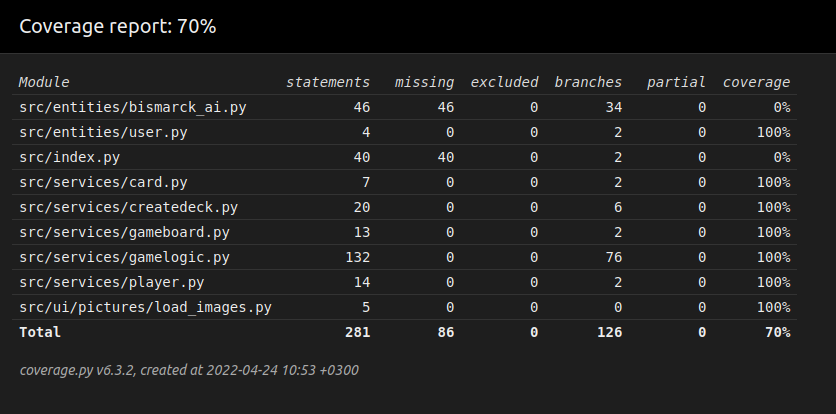
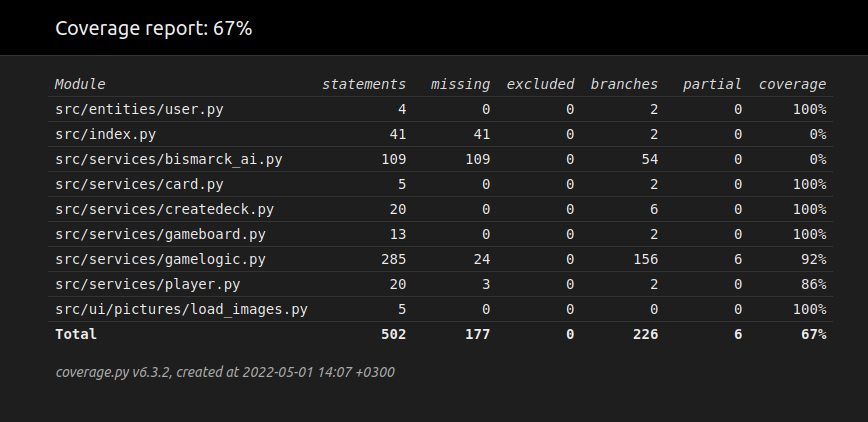
documentation

diff --git a/documentation/testing_documentation.md b/documentation/testing_documentation.md
@@ -5,7 +5,7 @@ Here documentation about testing will be kept and updated during the development
 
 ## Coverage Rapport
 
-### Updated 24.4.2022
+### Updated 1.5.2022
 As of this moment proper tests have been developed for classes: Card, CreateDeck, GameBoard, GameLogic, Player and User. When testing the method shuffle from the class CreateDeck the test fails at rare cases. This is due to it testing what the top card is after the shuffle. Against all odds this should not be the same as before the shuffle, however at rare cases this happens which makes the test fail. The current iteration of index.py is only a filler function to be used when testing the game as implemented to this point and will be iterated on when the game expands.
 
 ![](./pictures/coverage_report.png)

diff --git a/documentation/working_hours.md b/documentation/working_hours.md
@@ -13,3 +13,8 @@
 | 21.4  | 8    | Planned out the architecture of the GUI for the main game. Searched for creative commons licenced images that I could use for the cards |
 | 22.4  | 10   | Started to implement the planned architecture. |
 | 23.4  | 10   | Because of bad planning (or the lack of experience in coding bigger projects) I had to redo most of the GUI. |
+| 27.4  | 7    | Documenting all of the relevant classes. |
+| 28.4  | 9    | Redoing the class "GameboardPositions". Writing new tests. |
+| 29.4  | 8    | Creating the AI for the game. |
+| 30.4  | 8    | Finishing the main game. |
+| 1.5   | 5    | Documentation furhter testing. |

diff --git a/documentation/changelog.md b/documentation/changelog.md
@@ -12,3 +12,9 @@
 ## Week 5
 
 - During this week I created the first version of the GUI that will be used. I also started on creating an AI for the game which a player can play against.
+
+## Week 6
+
+- Added Docstring-documentation. Iterating on existing classes. Creating AI. Finishing main game.
+
+
